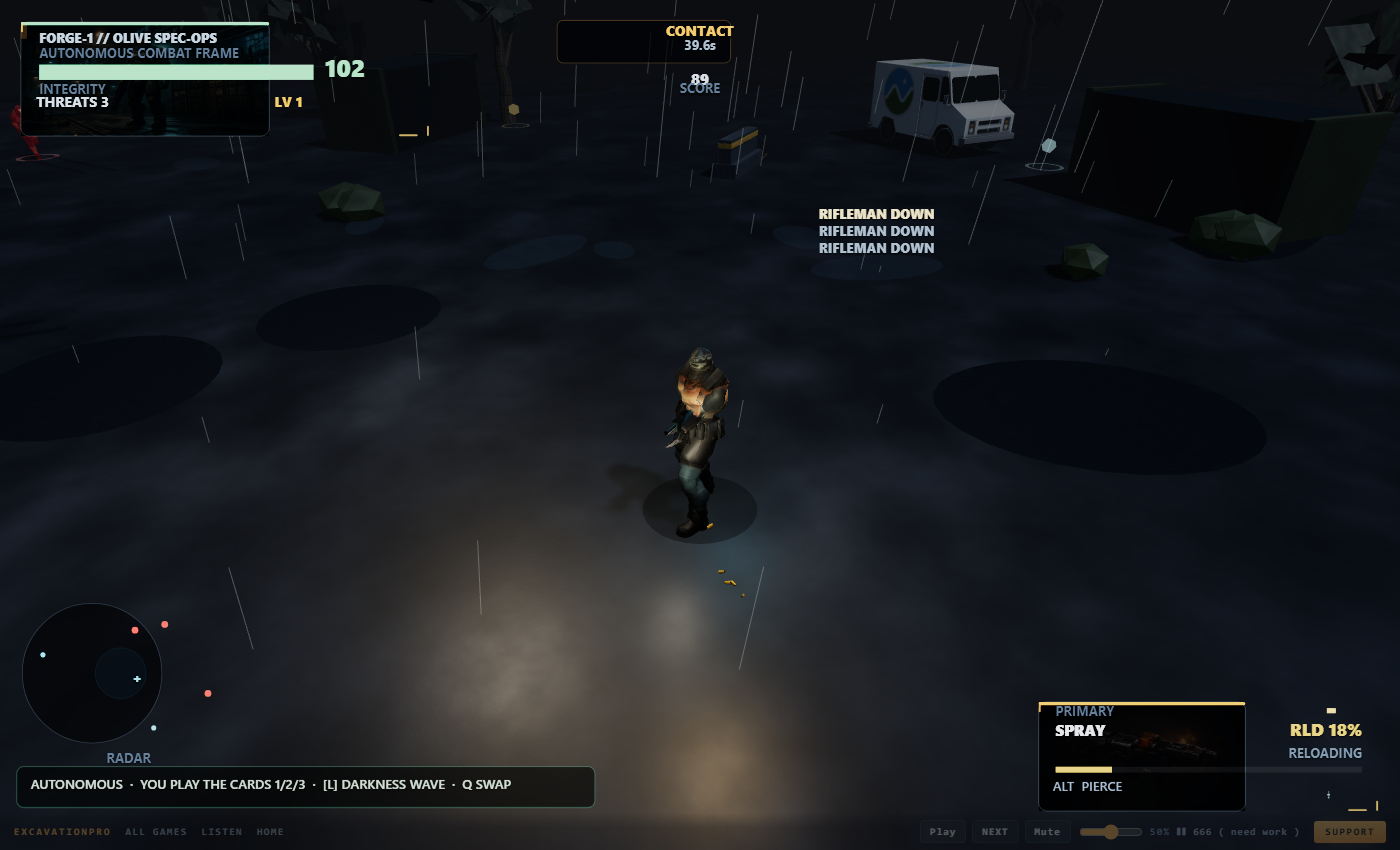
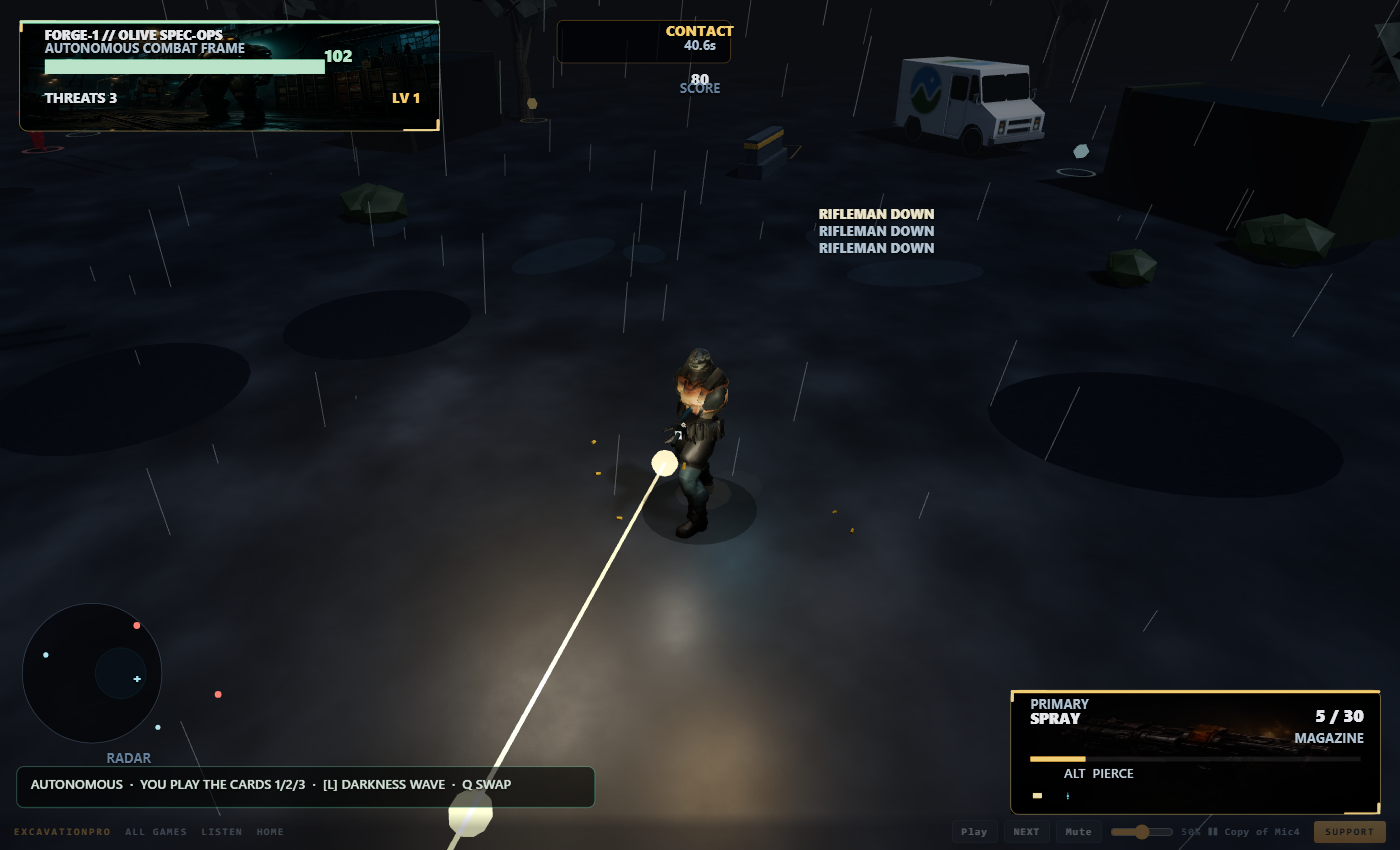
HUD re-grid: panels were sized in height units while positioned in width units, so cards were 40% too narrow and text hung outside them. Widths now scaled by width/height; visible photo art (mech/rifle) at 55% scrim, gold frames, aligned bar/number and ammo column, removed overlapping INTEGRITY capt

diff --git a/src/main.js b/src/main.js
@@ -1,8 +1,8 @@
 import * as THREE from "three";
-import { FlowPhase, installStudio, makeRng } from "./studio.js?v=202610322r";
-import { standardMaterial } from "./materials.js?v=202610322r";
-import { makeBush, makeLog, makeTree, swayTree } from "./foliage.js?v=202610322r";
-import { generateWeaponIconAtlas, getWeaponIconUV, createWeaponIconMesh, STYLE_ICON_INDEX, generateWeaponIconDataUrls, loadWeaponIconSheetDataUrls } from "./icons.js?v=202610322r";
+import { FlowPhase, installStudio, makeRng } from "./studio.js?v=202610322v";
+import { standardMaterial } from "./materials.js?v=202610322v";
+import { makeBush, makeLog, makeTree, swayTree } from "./foliage.js?v=202610322v";
+import { generateWeaponIconAtlas, getWeaponIconUV, createWeaponIconMesh, STYLE_ICON_INDEX, generateWeaponIconDataUrls, loadWeaponIconSheetDataUrls } from "./icons.js?v=202610322v";
 import {
   PALETTE,
   TYPE_SCALE,
@@ -12,24 +12,24 @@ import {
   ARENA_LIGHTING,
   POINT_LIGHT_SCALE,
   hexInt,
-} from "./theme.js?v=202610322r";
-import { TUNING } from "./tuning.js?v=202610322r";
-import { spawnDamageNumber, updateDamageNumbers, clearDamageNumbers } from "./damageNumbers.js?v=202610322r";
-import { WeaponManager, CardSystem, Weapon, STYLE_VFX, GRENADE_STYLES } from "./weapons.js?v=202610322r";
-import { createCardTray } from "./cardsui.js?v=202610322r";
-import { createSummary } from "./summaryui.js?v=202610322r";
-import { createBarks } from "./barks.js?v=202610322r";
-import { EnemyManager, ENEMY_TYPES } from "./enemies.js?v=202610322r";
-import { BeatDirector, ScoreSystem, ResultsScreen } from "./director.js?v=202610322r";
-import { bossHp } from "./balance.js?v=202610322r";
-import { loadSave, saveSave, updateBestScore, updateBestTime, getSettings, updateSettings, DEFAULT_SAVE, addProfileXp, grantLegacy, saveProfile } from "./save.js?v=202610322r";
-import { pilot } from "./autopilot.js?v=202610322r";
-import { createManager, statsForLevel, applyStatsToRun, LIGHT_MODS, PERKS } from "./manager.js?v=202610322r";
-import { createStartMenu } from "./startmenu.js?v=202610322r";
-import { createGamepad } from "./gamepad.js?v=202610322r";
-import { createTalentWindow } from "./talentui.js?v=202610322r";
-import { aggregate, toRunMods } from "./talents.js?v=202610322r";
-import { bakeProceduralArtSprites, PROCEDURAL_ART_MODULES } from "./art/index.js?v=202610322r";
+} from "./theme.js?v=202610322v";
+import { TUNING } from "./tuning.js?v=202610322v";
+import { spawnDamageNumber, updateDamageNumbers, clearDamageNumbers } from "./damageNumbers.js?v=202610322v";
+import { WeaponManager, CardSystem, Weapon, STYLE_VFX, GRENADE_STYLES } from "./weapons.js?v=202610322v";
+import { createCardTray } from "./cardsui.js?v=202610322v";
+import { createSummary } from "./summaryui.js?v=202610322v";
+import { createBarks } from "./barks.js?v=202610322v";
+import { EnemyManager, ENEMY_TYPES } from "./enemies.js?v=202610322v";
+import { BeatDirector, ScoreSystem, ResultsScreen } from "./director.js?v=202610322v";
+import { bossHp } from "./balance.js?v=202610322v";
+import { loadSave, saveSave, updateBestScore, updateBestTime, getSettings, updateSettings, DEFAULT_SAVE, addProfileXp, grantLegacy, saveProfile } from "./save.js?v=202610322v";
+import { pilot } from "./autopilot.js?v=202610322v";
+import { createManager, statsForLevel, applyStatsToRun, LIGHT_MODS, PERKS } from "./manager.js?v=202610322v";
+import { createStartMenu } from "./startmenu.js?v=202610322v";
+import { createGamepad } from "./gamepad.js?v=202610322v";
+import { createTalentWindow } from "./talentui.js?v=202610322v";
+import { aggregate, toRunMods } from "./talents.js?v=202610322v";
+import { bakeProceduralArtSprites, PROCEDURAL_ART_MODULES } from "./art/index.js?v=202610322v";
 import {
   PLAYER_SKINS,
   STARTER_LOADOUTS,
@@ -45,20 +45,20 @@ import {
   buildBossMesh,
   segmentHitsCollider,
   warmGlbAssets,
-} from "./models.js?v=202610322r";
-import * as levelModule from "./level.js?v=202610322r";
-import * as menuModule from "./menu.js?v=202610322r";
-import * as audioModule from "./audio.js?v=202610322r";
-import * as fxModule from "./fx.js?v=202610322r";
-import { MAPS, mapById, selectMap } from "./maps.js?v=202610322r";
-import { PICKUP_DEFS, planPickupSites, choosePickup, speedMultiplier, powerMultiplier, HEALTH_SPACING } from "./pickups.js?v=202610322r";
+} from "./models.js?v=202610322v";
+import * as levelModule from "./level.js?v=202610322v";
+import * as menuModule from "./menu.js?v=202610322v";
+import * as audioModule from "./audio.js?v=202610322v";
+import * as fxModule from "./fx.js?v=202610322v";
+import { MAPS, mapById, selectMap } from "./maps.js?v=202610322v";
+import { PICKUP_DEFS, planPickupSites, choosePickup, speedMultiplier, powerMultiplier, HEALTH_SPACING } from "./pickups.js?v=202610322v";
 
 // D3: one readable build stamp, so a stale module in the console is obvious.
 const BUILD = new URL(import.meta.url).searchParams.get("v") || "dev";
 window.__forgeBuild = BUILD;
 console.info("[forge] BUILD " + BUILD);
-import { createCasings } from "./casings.js?v=202610322r";
-import { feelFor, kickImpulse, tracerTaper } from "./stylefeel.js?v=202610322r";
+import { createCasings } from "./casings.js?v=202610322v";
+import { feelFor, kickImpulse, tracerTaper } from "./stylefeel.js?v=202610322v";
 
 const TAU = Math.PI * 2;
 const urlParams = new URLSearchParams(window.location.search);
@@ -1364,38 +1364,42 @@ function syncHud() {
     }
     if (hudHealth !== Math.round(state.health)) {
       hudHealth = Math.round(state.health);
-      // ── operator status card (top-left) ─────────────────────────────────────
-      // Photographic card skin: a still behind smoked glass, then hairline gold brackets.
-      h.image("vitals-photo", "./assets/start-still-a.jpg", { x: 0.015, y: 0.026, w: 0.292, h: 0.134 });
-      P("vitals", { x: 0.015, y: 0.026, w: 0.292, h: 0.134, radius: 0.009, fill: "rgba(6,10,16,0.84)", stroke: "rgba(160,184,208,0.34)", width: 0.0012 });
-      const br = "rgba(255,179,71,0.85)";
-      P("vitals-br-tl-h", { x: 0.015, y: 0.026, w: 0.022, h: 0.0022, fill: br });
-      P("vitals-br-tl-v", { x: 0.015, y: 0.026, w: 0.0022, h: 0.012, fill: br });
-      P("vitals-br-br-h", { x: 0.285, y: 0.158, w: 0.022, h: 0.0022, fill: br });
-      P("vitals-br-br-v", { x: 0.305, y: 0.148, w: 0.0022, h: 0.012, fill: br });
-      P("vitals-accent", { x: 0.015, y: 0.026, w: 0.292, h: 0.0038, radius: 0.002, fill: color, stroke: "rgba(0,0,0,0)", width: 0 });
-      P("vitals-tick", { x: 0.015, y: 0.026, w: 0.007, h: 0.020, radius: 0.002, fill: "rgba(255,179,71,0.22)", stroke: "rgba(0,0,0,0)", width: 0 });
-      T("vitals-title", activeSkin.name.toUpperCase(), { x: 0.028, y: 0.039, size: TYPE_SCALE.micro, color: "#aec2d6", weight: 800 });
-      T("vitals-sub", "AUTONOMOUS COMBAT FRAME", { x: 0.028, y: 0.056, size: TYPE_SCALE.micro, color: "#576a7e", weight: 700 });
-      B("health", ratio, { x: 0.028, y: 0.076, w: 0.196, h: 0.018, color, back: "rgba(255,255,255,0.07)" });
-      T("health-num", String(Math.round(state.health)), { x: 0.232, y: 0.069, size: TYPE_SCALE.numeral, color, weight: 800 });
-      T("health-cap", "INTEGRITY", { x: 0.028, y: 0.099, size: TYPE_SCALE.micro, color: "#576a7e", weight: 700 });
-      // ── weapon module (bottom-right) ────────────────────────────────────────
-      h.image("weapon-photo", "./assets/art-05.jpg", { x: 0.742, y: 0.826, w: 0.243, h: 0.128 });
-      P("weapon-module", { x: 0.742, y: 0.826, w: 0.243, h: 0.128, radius: 0.009, fill: "rgba(6,10,16,0.84)", stroke: "rgba(160,184,208,0.34)", width: 0.0012 });
-      P("weapon-br-tl-h", { x: 0.742, y: 0.826, w: 0.022, h: 0.0022, fill: "rgba(255,179,71,0.85)" });
-      P("weapon-br-tl-v", { x: 0.742, y: 0.826, w: 0.0022, h: 0.012, fill: "rgba(255,179,71,0.85)" });
-      P("weapon-br-br-h", { x: 0.963, y: 0.952, w: 0.022, h: 0.0022, fill: "rgba(255,179,71,0.85)" });
-      P("weapon-br-br-v", { x: 0.983, y: 0.942, w: 0.0022, h: 0.012, fill: "rgba(255,179,71,0.85)" });
-      P("weapon-accent", { x: 0.742, y: 0.826, w: 0.243, h: 0.0038, radius: 0.002, fill: PALETTE.ui, stroke: "rgba(0,0,0,0)", width: 0 });
-      T("weapon-tag", "PRIMARY", { x: 0.754, y: 0.830, size: TYPE_SCALE.micro, color: "#576a7e", weight: 700 });
+      // ── operator status card: one grid, one photo skin, no overlapping rows ──
+      const W2H = (globalThis.innerWidth || 1400) / (globalThis.innerHeight || 850);
+      const pw = (f) => f * W2H; // panel/image widths are height units in the HUD
+      const cx = 0.014, cy = 0.024, cw = pw(0.30), ch = 0.130;
+      const px = cx + 0.018;
+      h.image("vitals-photo", "./assets/start-still-a.jpg", { x: cx, y: cy, w: cw, h: ch });
+      P("vitals", { x: cx, y: cy, w: cw, h: ch, radius: 0.009, fill: "rgba(4,8,13,0.55)", stroke: "rgba(214,178,94,0.45)", width: 0.0012 });
+      const br = "rgba(255,196,104,0.92)";
+      P("vitals-br-tl-h", { x: cx, y: cy, w: pw(0.026), h: 0.0022, fill: br });
+      P("vitals-br-tl-v", { x: cx, y: cy, w: pw(0.0022), h: 0.014, fill: br });
+      P("vitals-br-br-h", { x: cx + 0.30 - 0.026, y: cy + ch - 0.0022, w: pw(0.026), h: 0.0022, fill: br });
+      P("vitals-br-br-v", { x: cx + 0.30 - 0.0022, y: cy + ch - 0.014, w: pw(0.0022), h: 0.014, fill: br });
+      P("vitals-accent", { x: cx, y: cy, w: cw, h: 0.0035, radius: 0.002, fill: color, stroke: "rgba(0,0,0,0)", width: 0 });
+      T("vitals-title", activeSkin.name.toUpperCase(), { x: px, y: 0.035, size: TYPE_SCALE.micro, color: "#e6eef7", weight: 800 });
+      T("vitals-sub", "AUTONOMOUS COMBAT FRAME", { x: px, y: 0.050, size: TYPE_SCALE.micro, color: "#8fa3b6", weight: 700 });
+      B("health", ratio, { x: px, y: 0.070, w: 0.200, h: 0.017, color, back: "rgba(255,255,255,0.10)" });
+      T("health-num", String(Math.round(state.health)), { x: 0.252, y: 0.058, size: TYPE_SCALE.subhead, color, weight: 800, align: "right" });
+
+      // ── weapon card: same grid, photo skin, ammo right-aligned inside the card ──
+      const wx = 0.722, wy = 0.812, ww = pw(0.264), wh = 0.146;
+      const wpx = wx + 0.014;
+      h.image("weapon-photo", "./assets/art-05.jpg", { x: wx, y: wy, w: ww, h: wh });
+      P("weapon-module", { x: wx, y: wy, w: ww, h: wh, radius: 0.009, fill: "rgba(4,8,13,0.55)", stroke: "rgba(214,178,94,0.45)", width: 0.0012 });
+      P("weapon-br-tl-h", { x: wx, y: wy, w: pw(0.026), h: 0.0022, fill: br });
+      P("weapon-br-tl-v", { x: wx, y: wy, w: pw(0.0022), h: 0.014, fill: br });
+      P("weapon-br-br-h", { x: wx + 0.264 - 0.026, y: wy + wh - 0.0022, w: pw(0.026), h: 0.0022, fill: br });
+      P("weapon-br-br-v", { x: wx + 0.264 - 0.0022, y: wy + wh - 0.014, w: pw(0.0022), h: 0.014, fill: br });
+      P("weapon-accent", { x: wx, y: wy, w: ww, h: 0.0035, radius: 0.002, fill: PALETTE.ui, stroke: "rgba(0,0,0,0)", width: 0 });
+      T("weapon-tag", "PRIMARY", { x: wpx, y: 0.822, size: TYPE_SCALE.micro, color: "#8fa3b6", weight: 700 });
     }
     const killsKey = `${state.kills}:${cardSystem.level}`;
     if (hudKills !== killsKey) {
       hudKills = killsKey;
       weaponManager.syncReloadMeta(cardSystem.level, weaponManager.reloadUpgradesCount);
-      T("kills", `THREATS ${state.kills}`, { x: 0.026, y: 0.113, size: TYPE_SCALE.small, color: "#cfdeee", weight: 700 });
-      T("level-chip", `LV ${cardSystem.level}`, { x: 0.196, y: 0.113, size: TYPE_SCALE.small, color: PALETTE.ui, weight: 800 });
+      T("kills", `THREATS ${state.kills}`, { x: 0.032, y: 0.108, size: TYPE_SCALE.small, color: "#dbe7f2", weight: 700 });
+      T("level-chip", `LV ${cardSystem.level}`, { x: 0.300, y: 0.108, size: TYPE_SCALE.small, color: PALETTE.ui, weight: 800, align: "right" });
     }
 
     const activeConfig = weaponManager.getActiveConfig();
@@ -1415,26 +1419,26 @@ function syncHud() {
       : `${ammoNow} / ${ammoMax}`;
     if (hudAmmo !== ammoText) {
       hudAmmo = ammoText;
-      T("weapon-active", activeName, { x: 0.754, y: 0.852, size: TYPE_SCALE.label, color: "#f2f7ff", weight: 800 });
-      T("weapon-inactive", `ALT  ${inactiveName}`, { x: 0.752, y: 0.919, size: TYPE_SCALE.micro, color: "#8ea3b8", weight: 600 });
-      T("ammo-tag", activeWeapon.isReloading ? "RELOADING" : (activeWeapon.isHeatWeapon ? "HEAT" : "MAGAZINE"), { x: 0.962, y: 0.880, size: TYPE_SCALE.micro, color: "#6b7f92", weight: 700, align: "right" });
-      T("ammo-count", ammoText, { x: 0.962, y: 0.850, size: TYPE_SCALE.subhead, color: activeWeapon.isReloading ? PALETTE.healthWarn : "#eaf3ff", weight: 800, align: "right" });
+      T("weapon-active", activeName, { x: 0.736, y: 0.838, size: TYPE_SCALE.label, color: "#f2f7ff", weight: 800 });
+      T("weapon-inactive", `ALT  ${inactiveName}`, { x: 0.760, y: 0.903, size: TYPE_SCALE.micro, color: "#a9bccd", weight: 600 });
+      T("ammo-tag", activeWeapon.isReloading ? "RELOADING" : (activeWeapon.isHeatWeapon ? "HEAT" : "MAGAZINE"), { x: 0.974, y: 0.862, size: TYPE_SCALE.micro, color: "#8fa3b6", weight: 700, align: "right" });
+      T("ammo-count", ammoText, { x: 0.974, y: 0.834, size: TYPE_SCALE.subhead, color: activeWeapon.isReloading ? PALETTE.healthWarn : "#eaf3ff", weight: 800, align: "right" });
       const barFrac = activeWeapon.isReloading
         ? activeWeapon.reloadProgress
         : activeWeapon.isHeatWeapon
           ? Math.max(0, 1 - activeWeapon.heat / Math.max(1, activeWeapon.maxHeat))
           : activeWeapon.magazine / Math.max(1, activeWeapon.maxMagazine);
-      B("reload-bar", barFrac, { x: 0.754, y: 0.902, w: 0.219, h: 0.007, color: activeWeapon.isReloading ? PALETTE.healthWarn : PALETTE.ui, back: "rgba(255,255,255,0.08)" });
+      B("reload-bar", barFrac, { x: 0.736, y: 0.890, w: 0.236, h: 0.006, color: activeWeapon.isReloading ? PALETTE.healthWarn : PALETTE.ui, back: "rgba(255,255,255,0.10)" });
     }
 
     // Weapon icons (ART-01 sheet), sized for the module.
     const activeIconSrc = weaponIconDataUrls[activeStyle];
     const inactiveIconSrc = weaponIconDataUrls[inactiveStyle];
     if (activeIconSrc && h.get("weapon-icon-active")?.src !== activeIconSrc) {
-      h.image("weapon-icon-active", activeIconSrc, { x: 0.946, y: 0.828, h: 0.016 });
+      h.image("weapon-icon-active", activeIconSrc, { x: 0.736, y: 0.928, h: 0.016 });
     }
     if (inactiveIconSrc && h.get("weapon-icon-inactive")?.src !== inactiveIconSrc) {
-      h.image("weapon-icon-inactive", inactiveIconSrc, { x: 0.946, y: 0.930, h: 0.010 });
+      h.image("weapon-icon-inactive", inactiveIconSrc, { x: 0.760, y: 0.932, h: 0.009 });
     }
 
     // Low-integrity wash: the HUD "flash" layer covers the whole frame (a panel is laid out in the
@@ -1443,7 +1447,7 @@ function syncHud() {
       const pulse = ratio < 0.25 ? 0.03 * Math.sin(state.t * 7) : 0;
       const alpha = Math.min(0.34, (0.5 - ratio) * 0.55 + pulse + 0.05);
       h.flash("#7e0c14", alpha * 0.55);
-      T("vitals-warning", ratio < 0.25 ? "INTEGRITY CRITICAL" : "INTEGRITY LOW", { x: 0.028, y: 0.128, size: TYPE_SCALE.micro, color: PALETTE.healthCrit, weight: 800 });
+      T("vitals-warning", ratio < 0.25 ? "INTEGRITY CRITICAL" : "INTEGRITY LOW", { x: 0.032, y: 0.126, size: TYPE_SCALE.micro, color: PALETTE.healthCrit, weight: 800 });
     } else {
       h.remove("vitals-warning");
     }

diff --git a/src/art/index.js b/src/art/index.js
@@ -1,11 +1,11 @@
-import { draw as drawWeaponSilhouette } from "./weapon_silhouette_module.js?v=202610322r";
-import { draw as drawEnemySilhouette } from "./enemy_silhouette_module.js?v=202610322r";
-import { draw as drawBossSilhouette } from "./boss_silhouette_module.js?v=202610322r";
-import { draw as drawGroundTexture } from "./ground_texture_module.js?v=202610322r";
-import { draw as drawWallTexture } from "./wall_texture_module.js?v=202610322r";
-import { draw as drawCardIconSheet } from "./card_icon_sheet_module.js?v=202610322r";
-import { draw as drawMuzzleFlash } from "./muzzle_flash_module.js?v=202610322r";
-import { draw as drawImpactSpark } from "./impact_spark_module.js?v=202610322r";
+import { draw as drawWeaponSilhouette } from "./weapon_silhouette_module.js?v=202610322v";
+import { draw as drawEnemySilhouette } from "./enemy_silhouette_module.js?v=202610322v";
+import { draw as drawBossSilhouette } from "./boss_silhouette_module.js?v=202610322v";
+import { draw as drawGroundTexture } from "./ground_texture_module.js?v=202610322v";
+import { draw as drawWallTexture } from "./wall_texture_module.js?v=202610322v";
+import { draw as drawCardIconSheet } from "./card_icon_sheet_module.js?v=202610322v";
+import { draw as drawMuzzleFlash } from "./muzzle_flash_module.js?v=202610322v";
+import { draw as drawImpactSpark } from "./impact_spark_module.js?v=202610322v";
 
 export const PROCEDURAL_ART_MODULES = {
   weaponSilhouette: drawWeaponSilhouette,

diff --git a/src/assets.js b/src/assets.js
@@ -3,7 +3,7 @@
  * which files made by studio tools (Blender first) enter a game. Nothing here downloads:
  * `assets/<name>.glb` is committed with the game, served by the studio and copied by export.
  *
- *   import { loadAsset } from "./assets.js?v=202610322r";
+ *   import { loadAsset } from "./assets.js?v=202610322v";
  *   const dog = await loadAsset("dog", { tag: "dog", scale: 0.6 });   // a Group tagged "dog"
  *   scene.add(dog);
  *
@@ -20,7 +20,7 @@ import * as THREE from "three";
 import { GLTFLoader } from "three/addons/loaders/GLTFLoader.js";
 import { MeshoptDecoder } from "three/addons/libs/meshopt_decoder.module.js";
 import { KTX2Loader } from "three/addons/loaders/KTX2Loader.js";
-import { KINDS, bakeTexture } from "./materials.js?v=202610322r";
+import { KINDS, bakeTexture } from "./materials.js?v=202610322v";
 
 const loader = new GLTFLoader().setMeshoptDecoder(MeshoptDecoder);
 /** Call once after creating the renderer before loading Genex KTX2 desktop variants. */

diff --git a/src/manager.js b/src/manager.js
@@ -8,10 +8,10 @@
  * This module is pure DOM. It never touches the renderer: the 3D operator turntable keeps running
  * behind it, so the character model IS the preview.
  */
-import { ARENAS, isArenaUnlocked } from "./menu.js?v=202610322r";
-import { STARTER_LOADOUTS, PLAYER_SKINS } from "./models.js?v=202610322r";
-import { addProfileXp, grantLegacy, saveProfile, xpForLevel } from "./save.js?v=202610322r";
-import { TUNING } from "./tuning.js?v=202610322r";
+import { ARENAS, isArenaUnlocked } from "./menu.js?v=202610322v";
+import { STARTER_LOADOUTS, PLAYER_SKINS } from "./models.js?v=202610322v";
+import { addProfileXp, grantLegacy, saveProfile, xpForLevel } from "./save.js?v=202610322v";
+import { TUNING } from "./tuning.js?v=202610322v";
 
 /** Light mods are cards. `starter` ones can be taken as equipped cards; the rest are found/earned. */
 export const LIGHT_MODS = [

diff --git a/src/foliage.js b/src/foliage.js
@@ -9,7 +9,7 @@
  * transparent gaps, scattered through an ellipsoid. The silhouette breaks, light passes
  * through, the underside darkens, and it sways as a whole.
  *
- *   import { makeTree, makeBush, makeLogPile, swayTree } from "./foliage.js?v=202610322r";
+ *   import { makeTree, makeBush, makeLogPile, swayTree } from "./foliage.js?v=202610322v";
  *   const oak = makeTree({ height: 8, spread: 4, seed: 12 });   // tag "tree"
  *   scene.add(oak);                                              // in update(): swayTree(oak, t, wind)
  *
@@ -17,7 +17,7 @@
  * DataTexture), so it runs under the harness's evaluator as well as in the game.
  */
 import * as THREE from "three";
-import { makeRng, standardMaterial } from "./materials.js?v=202610322r";
+import { makeRng, standardMaterial } from "./materials.js?v=202610322v";
 
 const TAU = Math.PI * 2;
 

diff --git a/src/models.js b/src/models.js
@@ -6,9 +6,9 @@
 import * as THREE from "three";
 import { GLTFLoader } from "three/addons/loaders/GLTFLoader.js";
 import { clone as skeletonClone } from "three/addons/utils/SkeletonUtils.js";
-import { standardMaterial, bakeTexture } from "./materials.js?v=202610322r";
-import { PALETTE, hexInt } from "./theme.js?v=202610322r";
-import { mapById, PROP_COLLIDERS } from "./maps.js?v=202610322r";
+import { standardMaterial, bakeTexture } from "./materials.js?v=202610322v";
+import { PALETTE, hexInt } from "./theme.js?v=202610322v";
+import { mapById, PROP_COLLIDERS } from "./maps.js?v=202610322v";
 
 export const PLAYER_SKINS = [
   {

diff --git a/src/materials.js b/src/materials.js
@@ -5,7 +5,7 @@
  * from every camera, and a whole run shipped exactly that. Everything here bakes on a canvas
  * from a seed, so two builds on one seed produce the same pixels.
  *
- *   import { bakeTexture, triplanar, weather, variant, normalFromHeight } from "./materials.js?v=202610322r";
+ *   import { bakeTexture, triplanar, weather, variant, normalFromHeight } from "./materials.js?v=202610322v";
  *   const { map, roughnessMap, bumpMap } = bakeTexture({ kind: "masonry", seed: 7, palette: [0x6b5a48, 0x8a7a66] });
  *   wall.material = new THREE.MeshStandardMaterial({ map, roughnessMap, bumpMap, bumpScale: 0.6 });
  *

diff --git a/index.html b/index.html
@@ -269,9 +269,9 @@
   });
 </script>
 <!-- the shared listen player: one audio element, keeps playing across start / manager / game -->
-<script src="./assets/radio.js?v=202610322r"></script>
+<script src="./assets/radio.js?v=202610322v"></script>
 <!-- arcade ledger: the shared write path for the live board (mirrors /games/arcade-ledger.js) -->
-<script src="./assets/arcade-ledger.js?v=202610322r"></script>
-<script type="module" src="./src/main.js?v=202610322r"></script>
+<script src="./assets/arcade-ledger.js?v=202610322v"></script>
+<script type="module" src="./src/main.js?v=202610322v"></script>
 </body>
 </html>

diff --git a/src/enemies.js b/src/enemies.js
@@ -4,15 +4,15 @@
  */
 
 import * as THREE from "three";
-import { TUNING } from "./tuning.js?v=202610322r";
-import { enemyHpAt, enemySpeedAt, damageAfterArmour, shieldGate } from "./balance.js?v=202610322r";
+import { TUNING } from "./tuning.js?v=202610322v";
+import { enemyHpAt, enemySpeedAt, damageAfterArmour, shieldGate } from "./balance.js?v=202610322v";
 import {
   buildEnemyMesh,
   animateEnemyMesh,
   arenaColliders,
   resolveObstacleCollision,
   steerAroundObstacles,
-} from "./models.js?v=202610322r";
+} from "./models.js?v=202610322v";
 
 export const ENEMY_TYPES = {
   rifleman: "rifleman",

diff --git a/src/weapons.js b/src/weapons.js
@@ -3,8 +3,8 @@
  * Pure logic, no rendering. Rendering handled by main.js.
  */
 
-import { TUNING } from "./tuning.js?v=202610322r";
-import { weaponStatsWithParts, rollAirdropOptions, rollPart as _rollPart, xpThreshold } from "./balance.js?v=202610322r";
+import { TUNING } from "./tuning.js?v=202610322v";
+import { weaponStatsWithParts, rollAirdropOptions, rollPart as _rollPart, xpThreshold } from "./balance.js?v=202610322v";
 
 const DEFAULT_RELOAD_META = {
   startMult: 1.40,        // Starts 40% slower at Level 1 (~0.71x speed)

diff --git a/src/math.js b/src/math.js
@@ -6,13 +6,13 @@
  * spread, falloff and the run-XP formula. Nothing here touches THREE or the DOM.
  */
 
-import { TUNING } from "./tuning.js?v=202610322r";
+import { TUNING } from "./tuning.js?v=202610322v";
 import {
   shieldGate as gate,
   bossHp as bossCurve,
   xpThreshold as xpCurve,
   timeToKill as ttk,
-} from "./balance.js?v=202610322r";
+} from "./balance.js?v=202610322v";
 
 /** Every constant in one place, each with the reason it has that value. */
 export const MATH = Object.freeze({

diff --git a/src/talentui.js b/src/talentui.js
@@ -8,7 +8,7 @@
  *
  * TREE  — pan / zoom, click a node to buy the cheapest chain, right-click to refund.
  */
-import { TREE, BRANCHES, aggregate, toRunMods, pathTo, refund, nodeById, countAllocated } from "./talents.js?v=202610322r";
+import { TREE, BRANCHES, aggregate, toRunMods, pathTo, refund, nodeById, countAllocated } from "./talents.js?v=202610322v";
 
 const ART = "./assets/tree/tree-bg.jpg";
 
